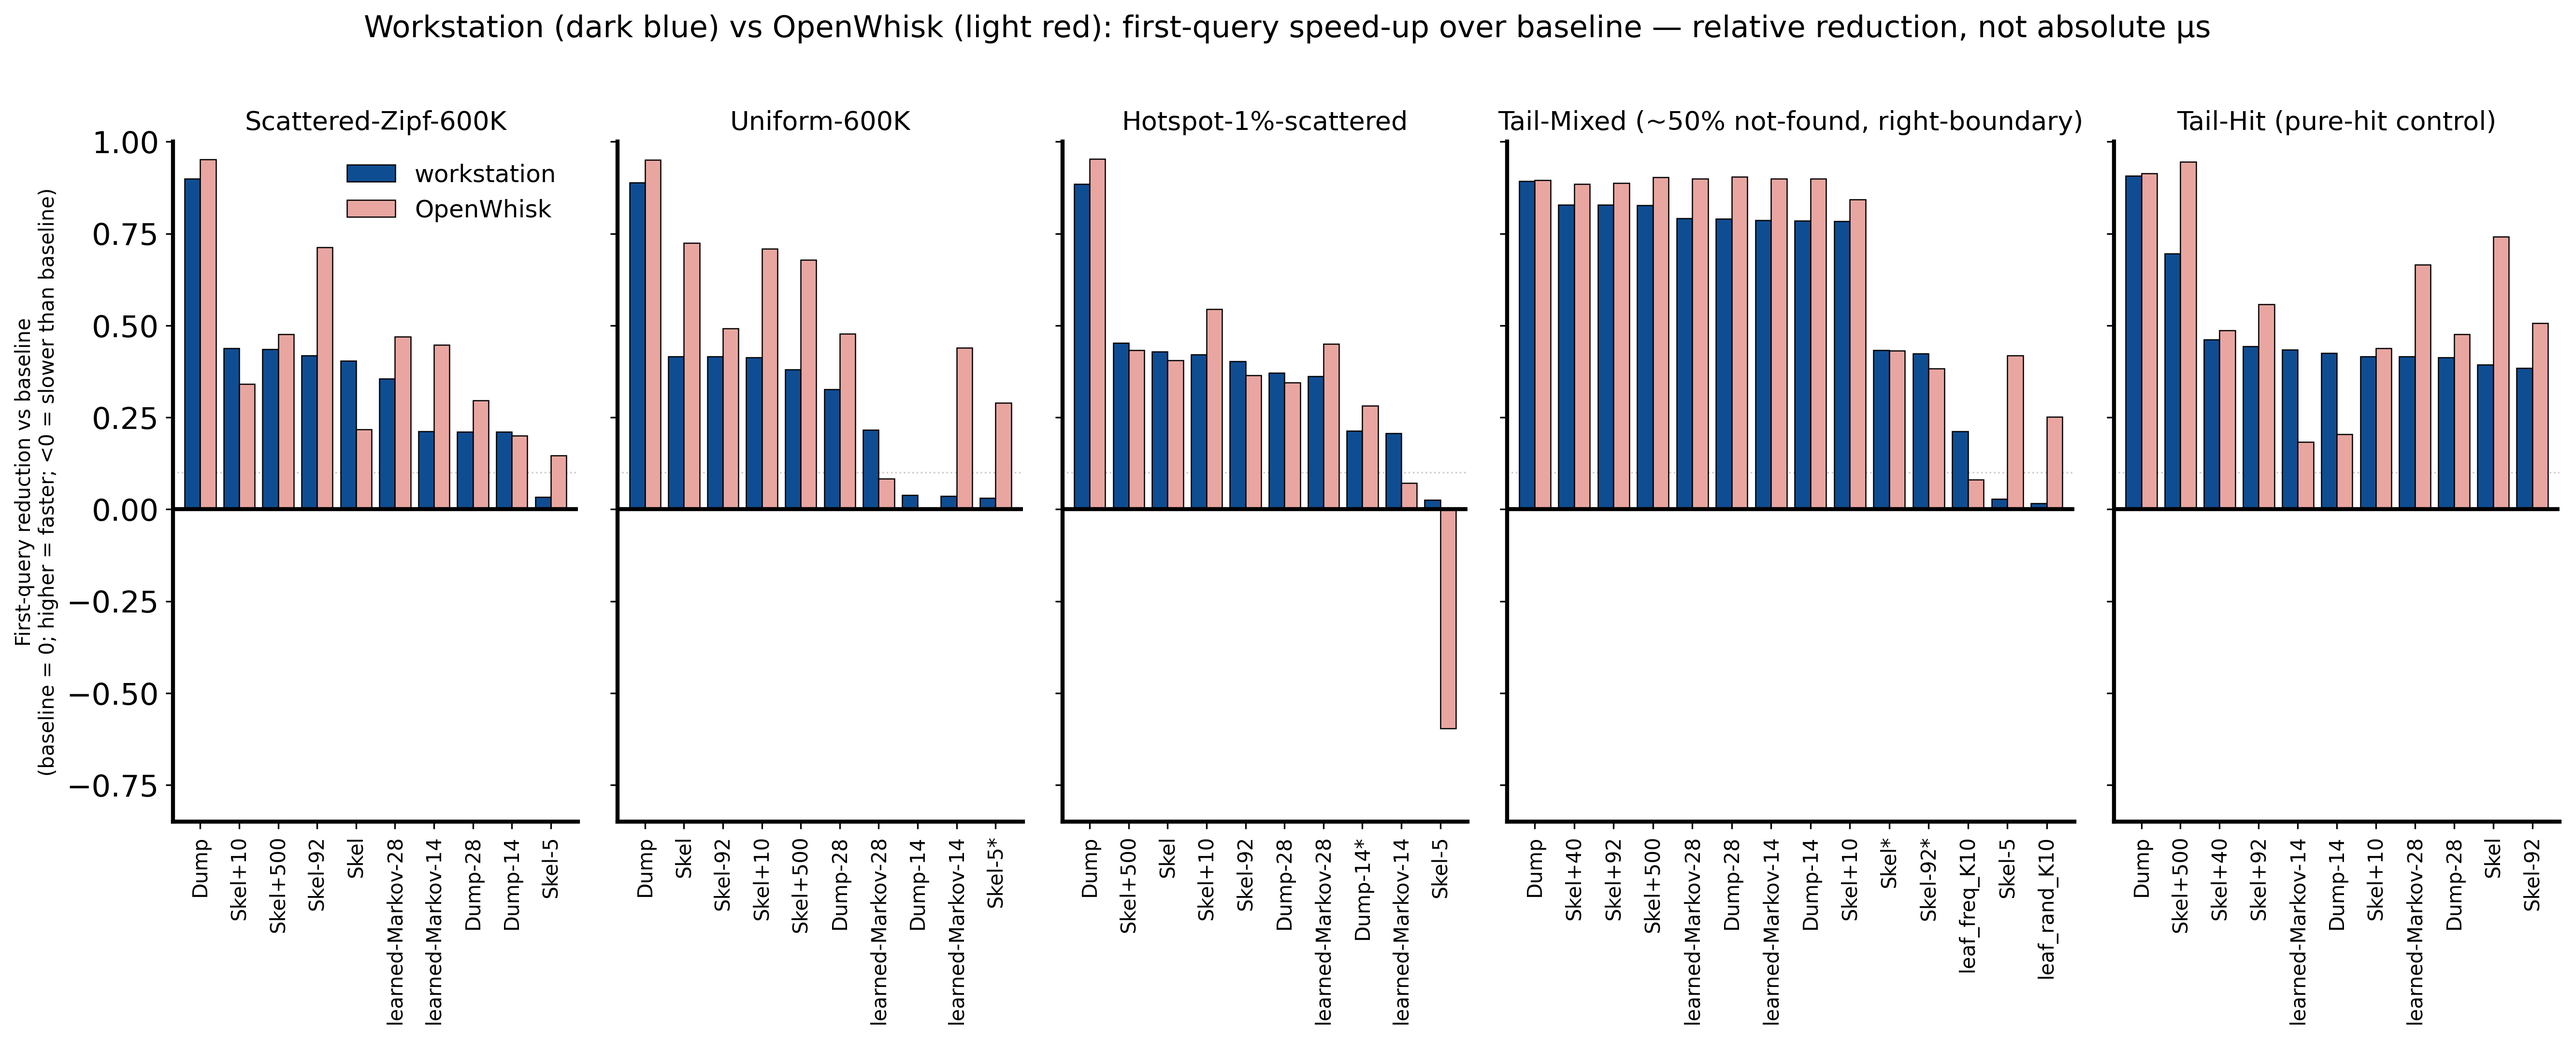
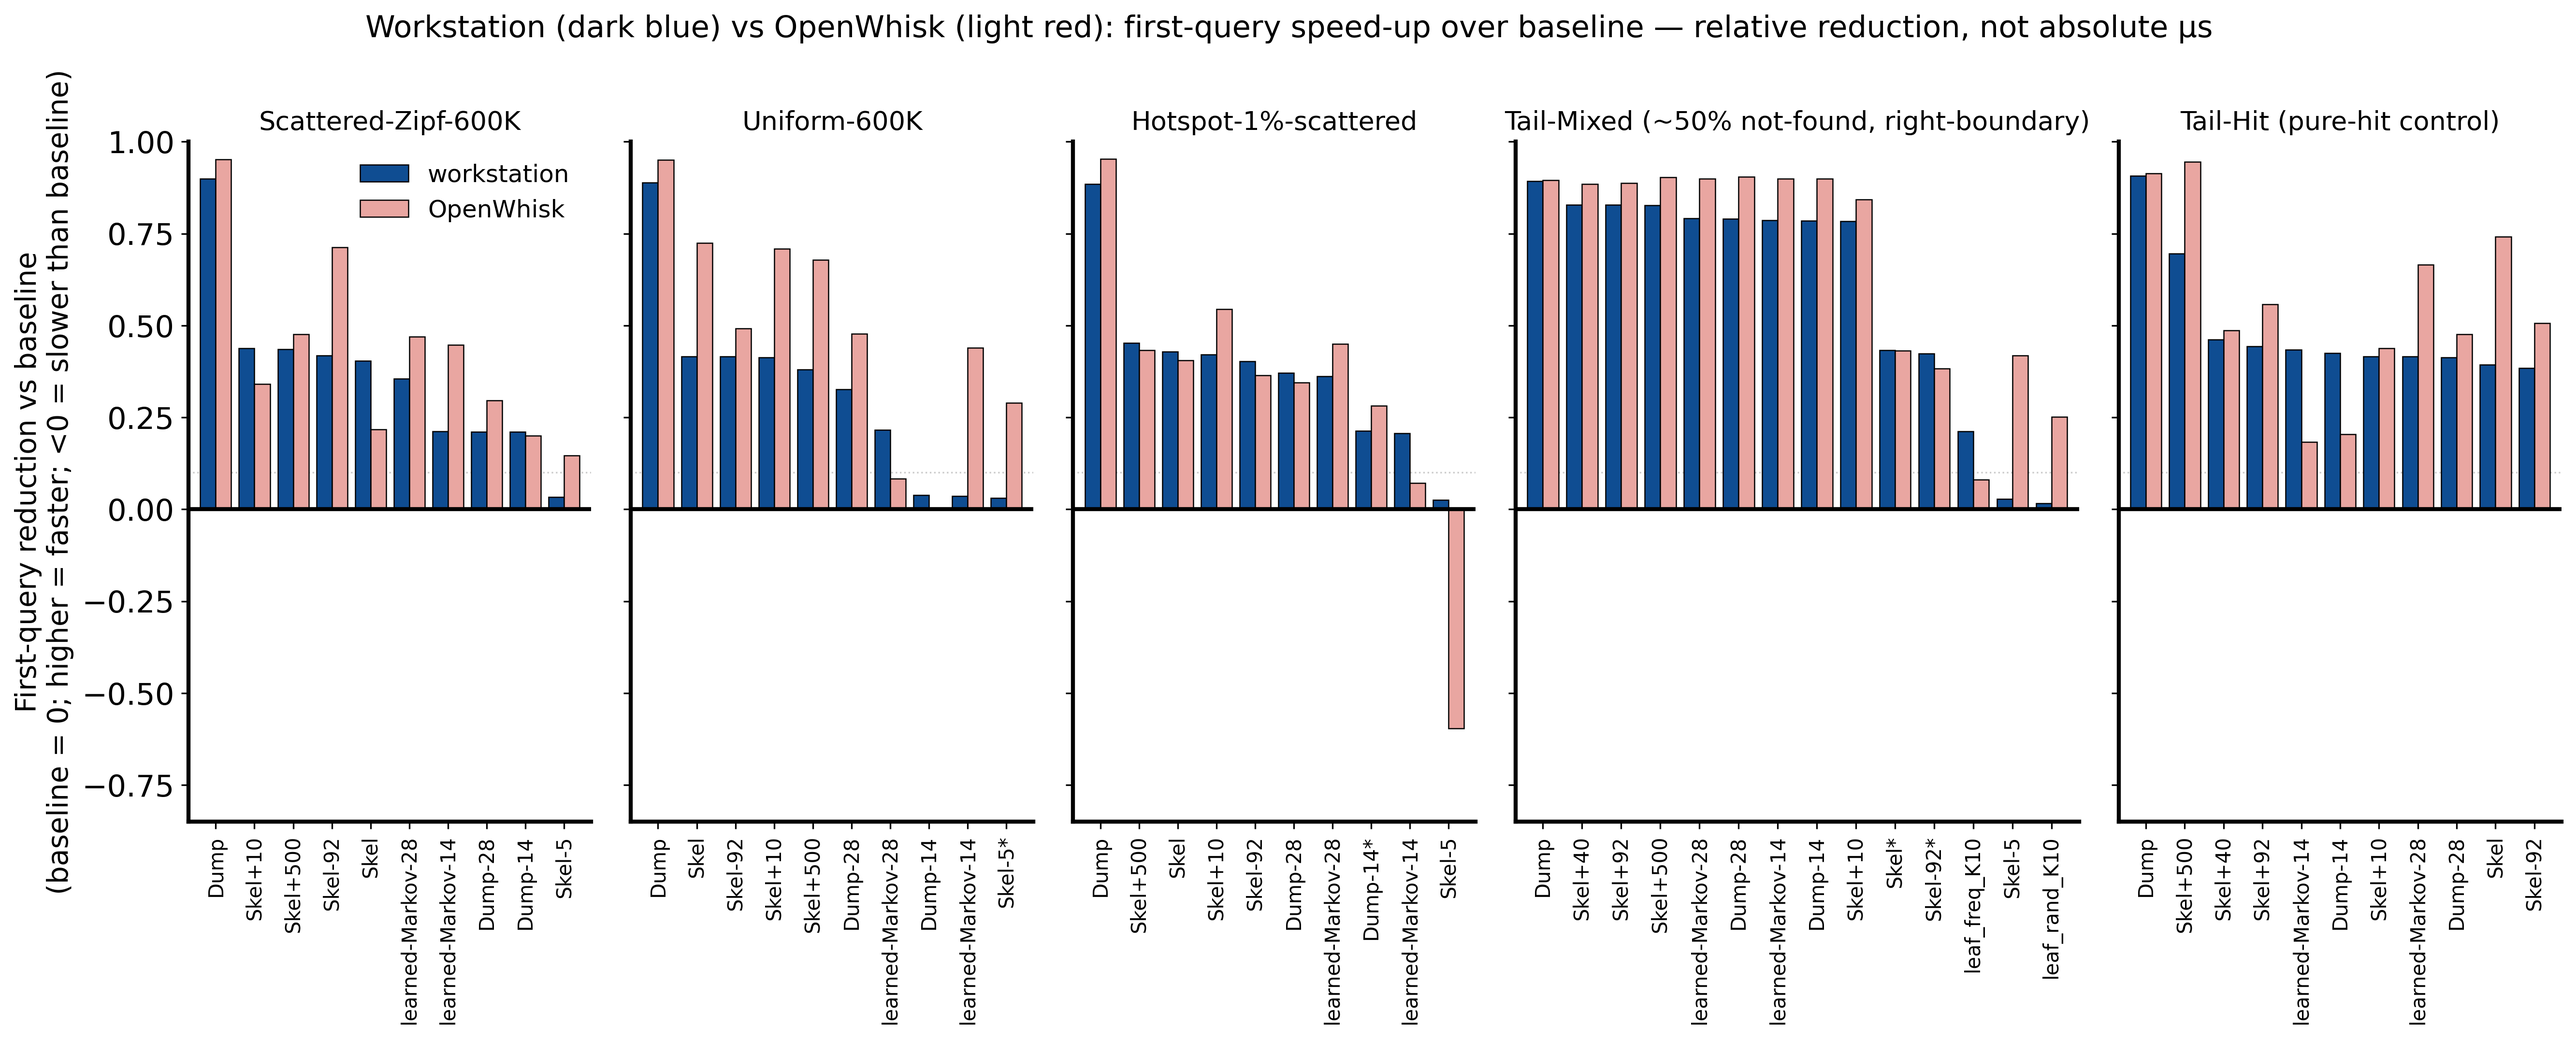
pub_style: set axis-title, panel-title and legend sizes explicitly
figures/plot_utils.py pins axes.labelsize, axes.titlesize and legend.fontsize to
absolute sizes (10, 12 and 9 pt), and font.size does not override an absolute
size, so the house style's 15 pt base never reached them. Wherever a script did
not size them itself, axis titles rendered at 10 pt beside 15 pt tick numbers.
pub_style now sets them relative to the base, 14, 15 and 13 pt, which makes the
"one type scale" of 0fa6ce7 true. The five paper figures are regenerated;
their copies in the paper submodule are committed there.

diff --git a/figures/pub_style.py b/figures/pub_style.py
@@ -22,6 +22,11 @@ def apply(font_size=15, axes_linewidth=2):
     plt.rcParams.update({
         "font.family": "DejaVu Sans",  # the skill's fallback; Arial/Helvetica not installed
         "font.size": font_size,
+        # plot_utils pins these to absolute sizes (10/12/9 pt), which font.size does
+        # not reach, so they must be set here or axis titles stay at 10 pt.
+        "axes.labelsize": font_size - 1,
+        "axes.titlesize": font_size,
+        "legend.fontsize": font_size - 2,
         "axes.spines.right": False,
         "axes.spines.top": False,
         "axes.linewidth": axes_linewidth,
